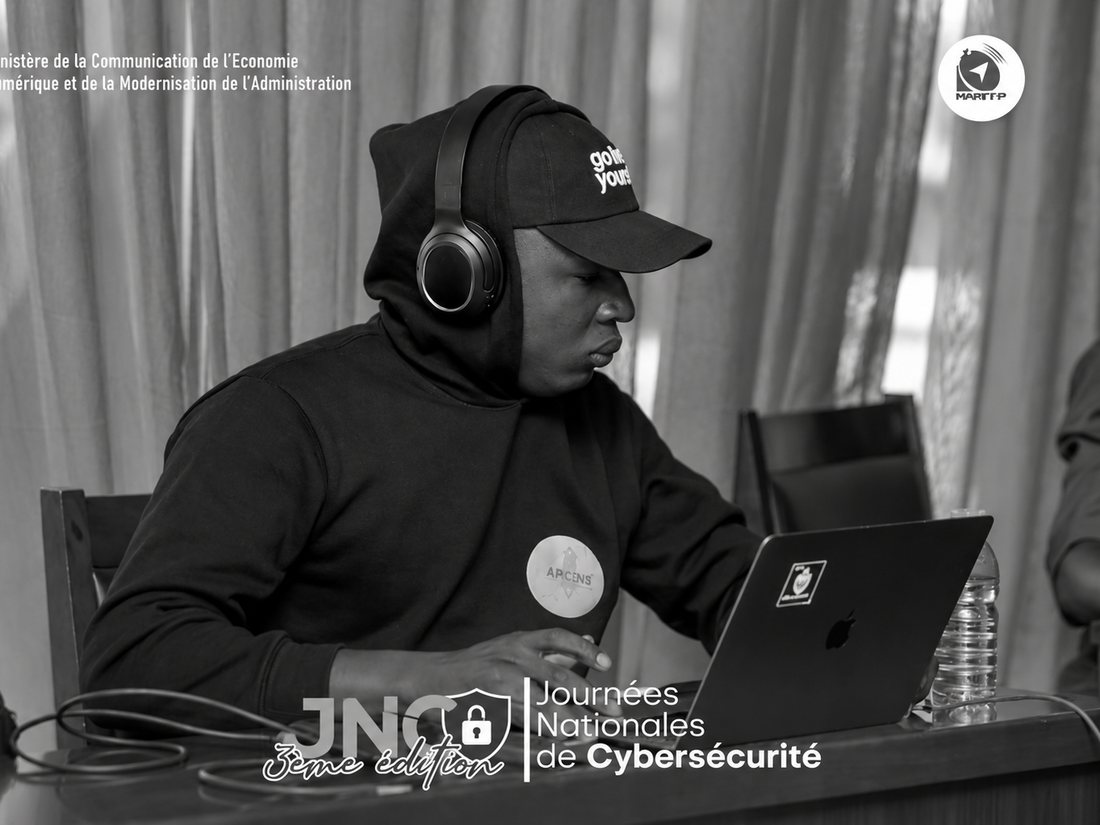
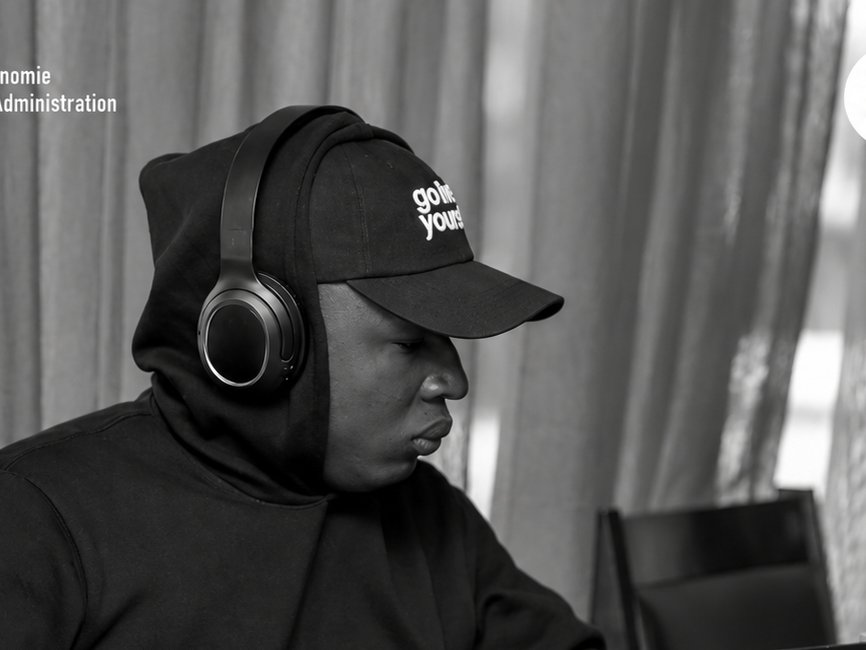
Properly center the face in the 3 solo gallery portraits
My previous crop only trimmed width (or height) but never checked where
that left the face vertically/horizontally — the JNC portrait in
particular ended up with the face in the upper third, not centered.

Recomputed each crop directly from the original source: measured the
face's bounding box, then cropped a 4:3 window whose center is the
face's center (bounded by the original image's edges). All three
portraits (JNC, desk/laptop, graduation) now have the face genuinely in
the middle of the frame, not just "high up but technically present".

Bumped the cache-busting query (?v=3) on these 3 images so the 30-day
immutable cache doesn't keep serving the old crop.

diff --git a/css/style.css b/css/style.css
@@ -356,11 +356,11 @@ svg { display: block; }
 .gi-prix-h2p-finale        { background-image: url("../assets/profil-prix-h2p-finale.jpg?v=2"); }
 .gi-formation-salle        { background-image: url("../assets/profil-formation-salle.jpg?v=2"); }
 .gi-evenement-h2p          { background-image: url("../assets/profil-evenement-h2p.jpg?v=2"); }
-.gi-portrait-jnc           { background-image: url("../assets/profil-portrait-jnc.jpg?v=2"); }
+.gi-portrait-jnc           { background-image: url("../assets/profil-portrait-jnc.jpg?v=3"); }
 .gi-formation-certificats  { background-image: url("../assets/profil-formation-certificats.jpg?v=2"); }
-.gi-portrait-laptop        { background-image: url("../assets/profil-portrait-laptop.jpg?v=2"); }
+.gi-portrait-laptop        { background-image: url("../assets/profil-portrait-laptop.jpg?v=3"); }
 .gi-prix-jnc-ceremonie     { background-image: url("../assets/profil-prix-jnc-ceremonie.jpg?v=2"); }
-.gi-remise-diplome         { background-image: url("../assets/profil-remise-diplome.jpg?v=2"); }
+.gi-remise-diplome         { background-image: url("../assets/profil-remise-diplome.jpg?v=3"); }
 
 @media (max-width: 520px) { .about-gallery { grid-template-columns: repeat(2, 1fr); } }
 
